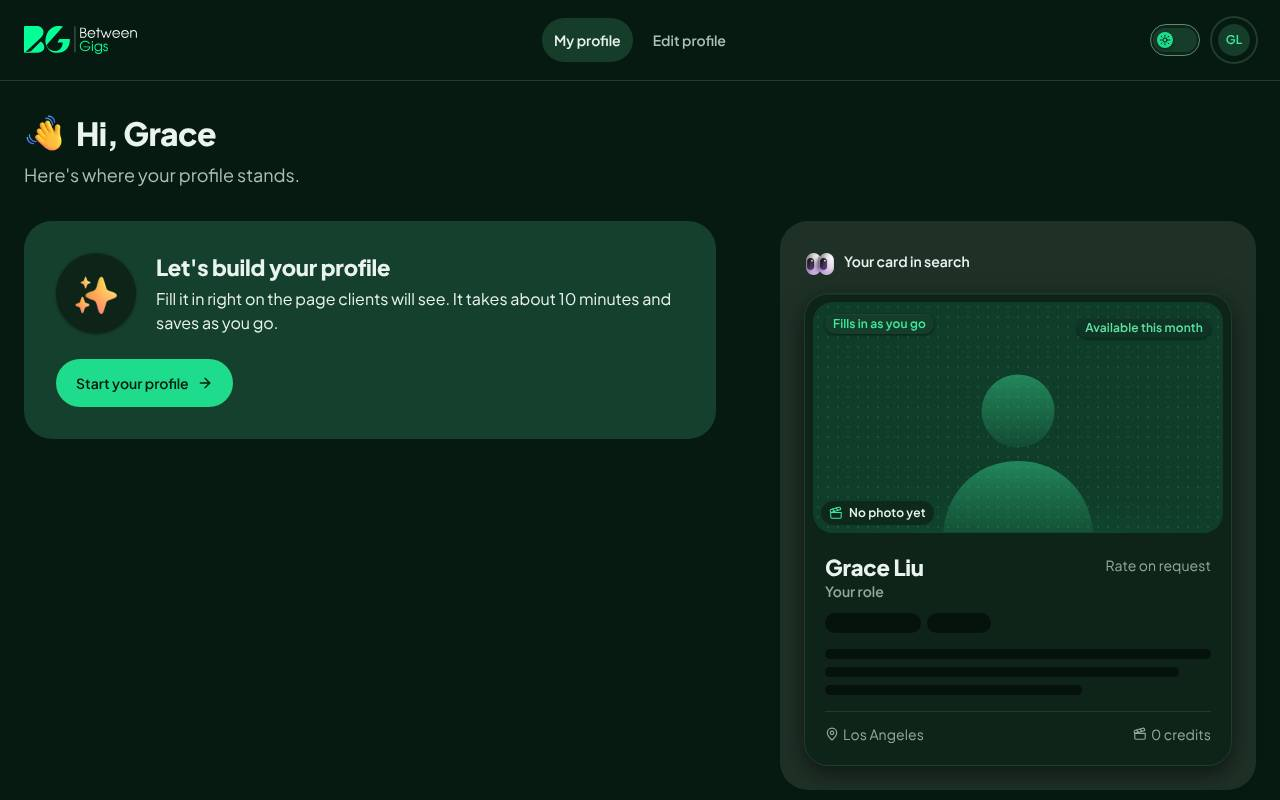
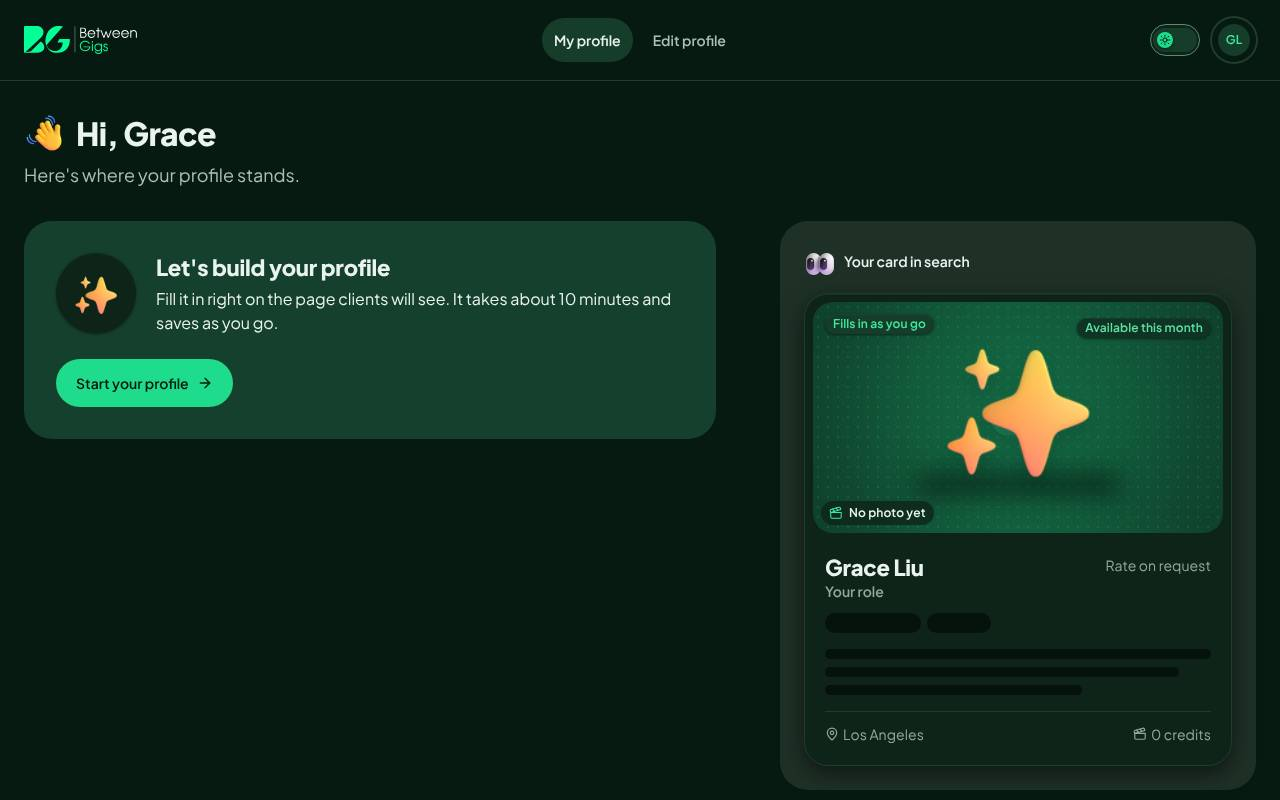
No-photo placeholder: the person's craft in a spotlight
Instead of a plain silhouette, a profile without a photo shows their trade as a big 3D icon (a dress for wardrobe,
lipstick for hair & makeup, a sofa and lamp for set decoration...) standing on a stage shadow under a soft mint
spotlight on the dotted forest, with their initials faint behind it and the 'No photo yet' badge. Thumbnails that
show it are refreshed.

Claude-Session: https://claude.ai/code/session_018rRyGXT71zSiBS7uQJ9HKu

Changed region(s): [[0.6875, 0.375, 0.9062, 0.625]]

diff --git a/components/people/PersonPhoto.tsx b/components/people/PersonPhoto.tsx
@@ -4,14 +4,16 @@ import { initials } from "@ds/components/Avatar";
 import { asset } from "@/lib/site";
 import { portraitName } from "@/lib/motion";
 import { departmentIcon } from "@/lib/profile/department";
+import { craftIcon } from "@/lib/icons3d";
+import { Icon3D } from "@/components/ui/Icon3D";
 
 /**
  * A person's portrait at any size: their photo, or their initials when there isn't one (the design
  * system's Avatar stops at 48px). `morph` gives it the shared view-transition name, so it flies between
  * the search card and the profile.
  *
- * `fallback="brand"` turns the no-photo state into a placeholder portrait: a silhouette on a soft light
- * surface with a "No photo yet" badge carrying their department icon, instead of giant initials.
+ * `fallback="brand"` turns the no-photo state into a placeholder portrait: their craft as a 3D icon in a spotlight on
+ * the dotted forest stage, initials faint behind it, and a "No photo yet" badge, instead of a plain silhouette.
  */
 export function PersonPhoto({ id, name, src, className, morph = false, alt, textClass = "text-display-sm", fallback = "plain", department, skills }: {
   id: string; name: string; src?: string; className?: string; morph?: boolean; alt?: string; textClass?: string;
@@ -23,21 +25,17 @@ export function PersonPhoto({ id, name, src, className, morph = false, alt, text
   }
   const a11y = alt === "" ? { "aria-hidden": true as const } : { role: "img", "aria-label": alt ?? `${name || "Gigster"} (no photo yet)` };
   if (fallback === "brand") {
-    // A placeholder portrait: a head-and-shoulders silhouette lit from above on the forest surface, with the
-    // person's department as a small badge, so a missing photo still reads as "a person goes here".
+    // A placeholder portrait, "in the spotlight": the forest stage with its dots, a soft mint spotlight from above,
+    // the person's craft as a big 3D icon standing on a stage shadow, and their initials faint behind it. It reads as
+    // "this person, in this trade" until a photo arrives, and the badge says plainly that there isn't one yet.
+    const craft = craftIcon(department || skills?.[0] || "", skills?.[0]);
     return (
       <span {...a11y} data-theme="dark" style={style}
         className={cx("@container relative isolate block overflow-hidden bg-surface-brand phosphor-dots select-none", className)}>
-        <svg aria-hidden="true" viewBox="0 0 200 200" preserveAspectRatio="xMidYMax meet" className="absolute inset-x-0 bottom-0 mx-auto h-5/6 max-h-full w-auto text-ink-brand">
-          <defs>
-            <linearGradient id={`pp-${id}`} x1="0" y1="0" x2="0" y2="1">
-              <stop offset="0" stopColor="currentColor" stopOpacity=".42" />
-              <stop offset="1" stopColor="currentColor" stopOpacity=".08" />
-            </linearGradient>
-          </defs>
-          <circle cx="100" cy="74" r="38" fill={`url(#pp-${id})`} />
-          <path d="M22 200c4-46 38-74 78-74s74 28 78 74z" fill={`url(#pp-${id})`} />
-        </svg>
+        <span aria-hidden="true" className="absolute -top-1/4 left-1/2 aspect-square w-4/5 -translate-x-1/2 rounded-full bg-mint-500/25 blur-3xl" />
+        <span aria-hidden="true" className="absolute inset-0 grid place-items-center font-display text-display-xl tracking-tight text-ink-brand/15 @3xs:text-stat">{initials(name || "?")}</span>
+        <span aria-hidden="true" className="absolute bottom-1/6 left-1/2 h-1/12 w-1/2 -translate-x-1/2 rounded-full bg-surface-sunken/70 blur-md" />
+        <Icon3D name={craft} className="absolute bottom-1/5 left-1/2 aspect-square size-auto w-2/5 -translate-x-1/2 drop-shadow-xl" />
         <span aria-hidden="true" className="absolute bottom-2 left-2 inline-flex items-center gap-1.5 rounded-full bg-surface/80 p-1.5 text-label-sm text-ink backdrop-blur-sm @3xs:px-2 @3xs:py-1">
           {createElement(departmentIcon(department, skills), { className: "size-3.5 text-ink-brand", strokeWidth: 1.75 })}
           <span className="hidden @3xs:inline">No photo yet</span>
